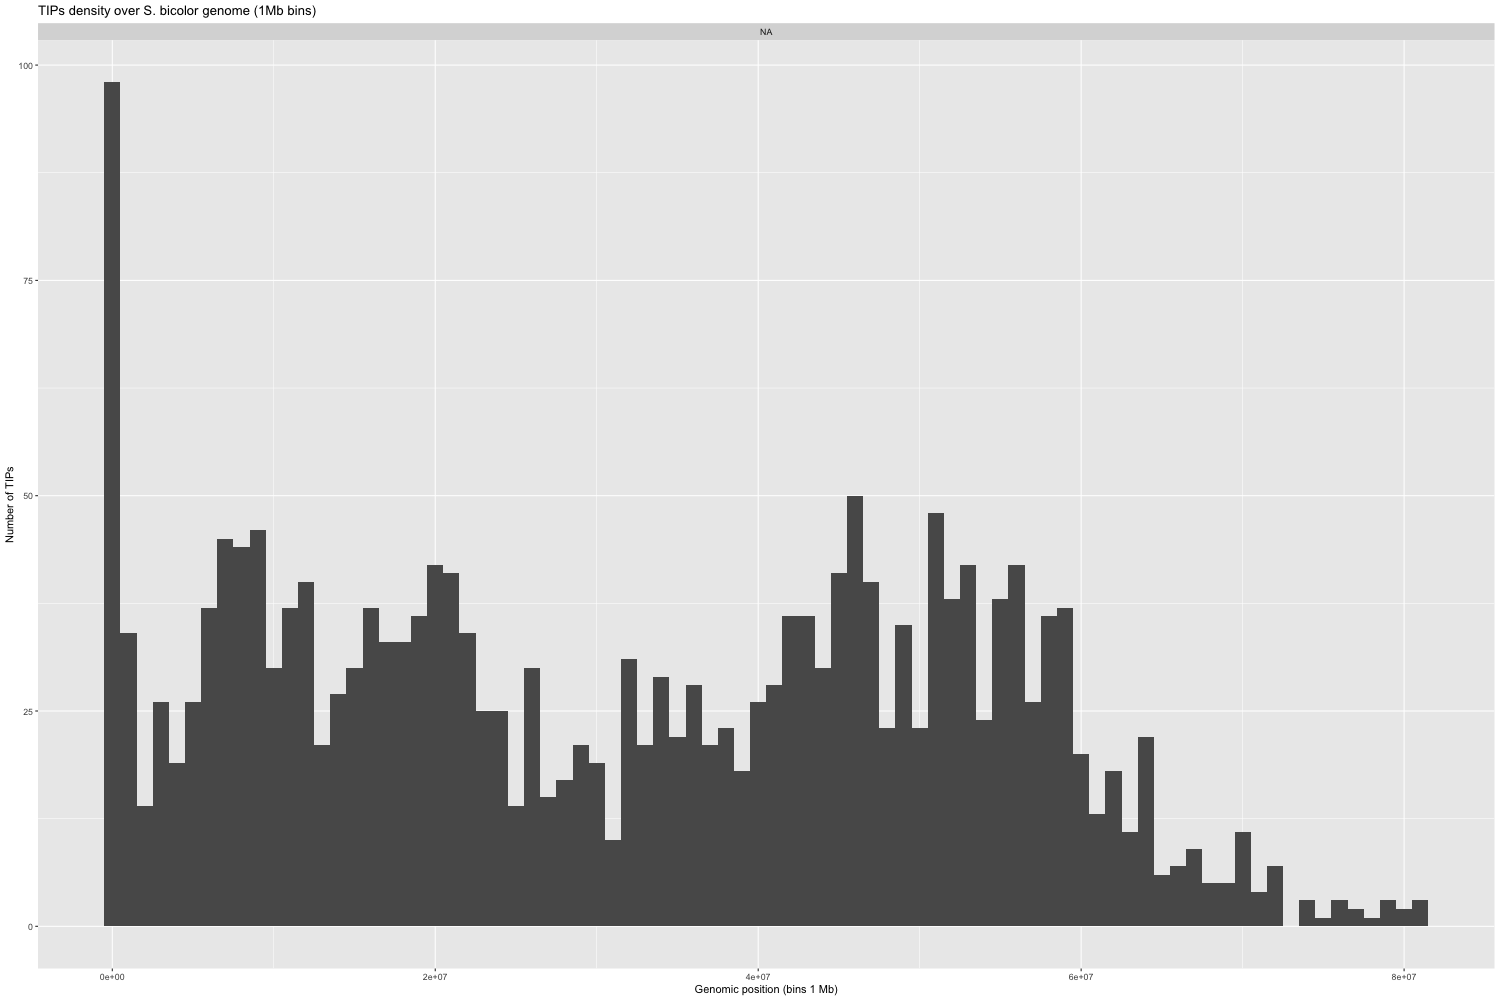
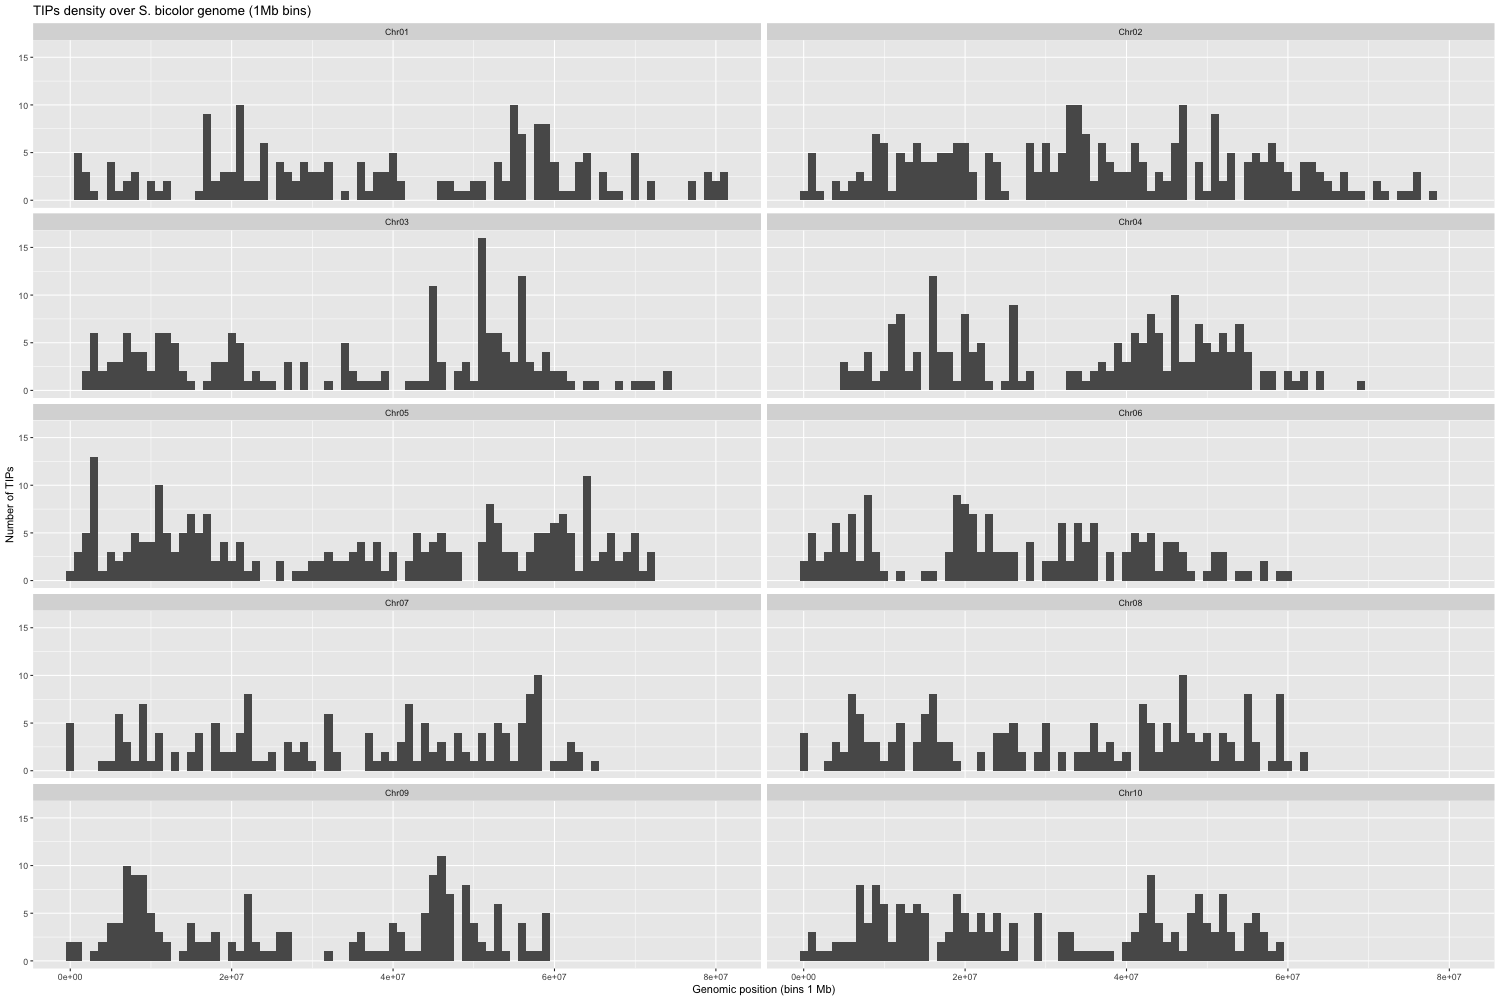
Updated READMEs, density.r, tip_density.png

diff --git a/README.md b/README.md
@@ -1,6 +1,6 @@
 ## Introduction
 
-Sorghum is a widely grown cereal crop originating from Africa.Five primary landraces: *durra*, *guinea*, *caudatum*, *kafir*, and *bicolor* (*BTx623*)Traits: *Heat tolerant, drought tolerant, and nitrogen efficient*. A very diverse species with various uses ranging from consumption by humans and livestock, to biomass.
+Sorghum is a widely grown cereal crop originating from Africa. Five primary landraces: *durra*, *guinea*, *caudatum*, *kafir*, and *bicolor* (*BTx623*)Traits: *Heat tolerant, drought tolerant, and nitrogen efficient*. A very diverse species with various uses ranging from consumption by humans and livestock, to biomass.
 
 ## Motivation
 

diff --git a/TIP_Analysis/README.md b/TIP_Analysis/README.md
@@ -109,7 +109,7 @@ cat /projects/cooper_research1/TIP_Analysis/Results/COPIA/Grif16309/TEfinder_*/T
 
 
 # Formatted .bed for density visualization
-cat /projects/cooper_research1/TIP_Analysis/Results/COPIA/Grif16309/TEfinder_*/TE*.bed | cut -f 1,2 > TE_density.bed
+cat /projects/cooper_research1/TIP_Analysis/Results/COPIA/Grif16309/TEfinder_*/TE*.bed | cut -f 1,2,3 > TE_density.bed
 ```
 
 
